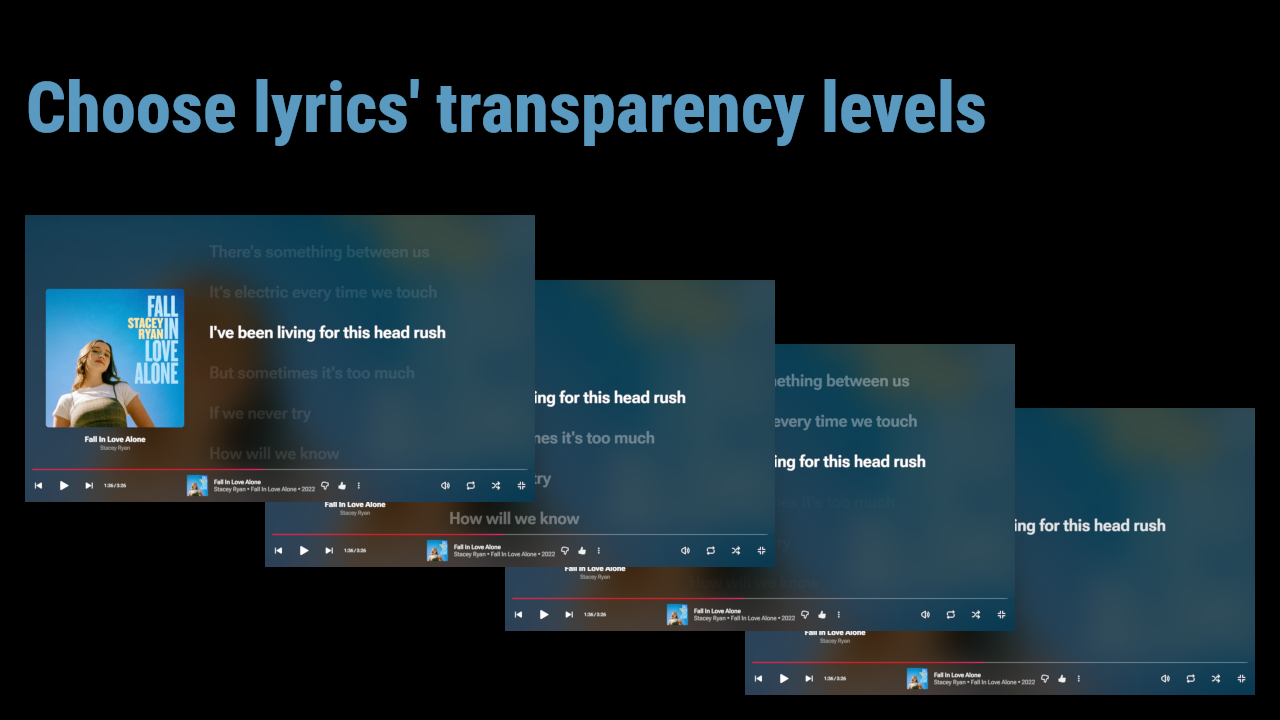
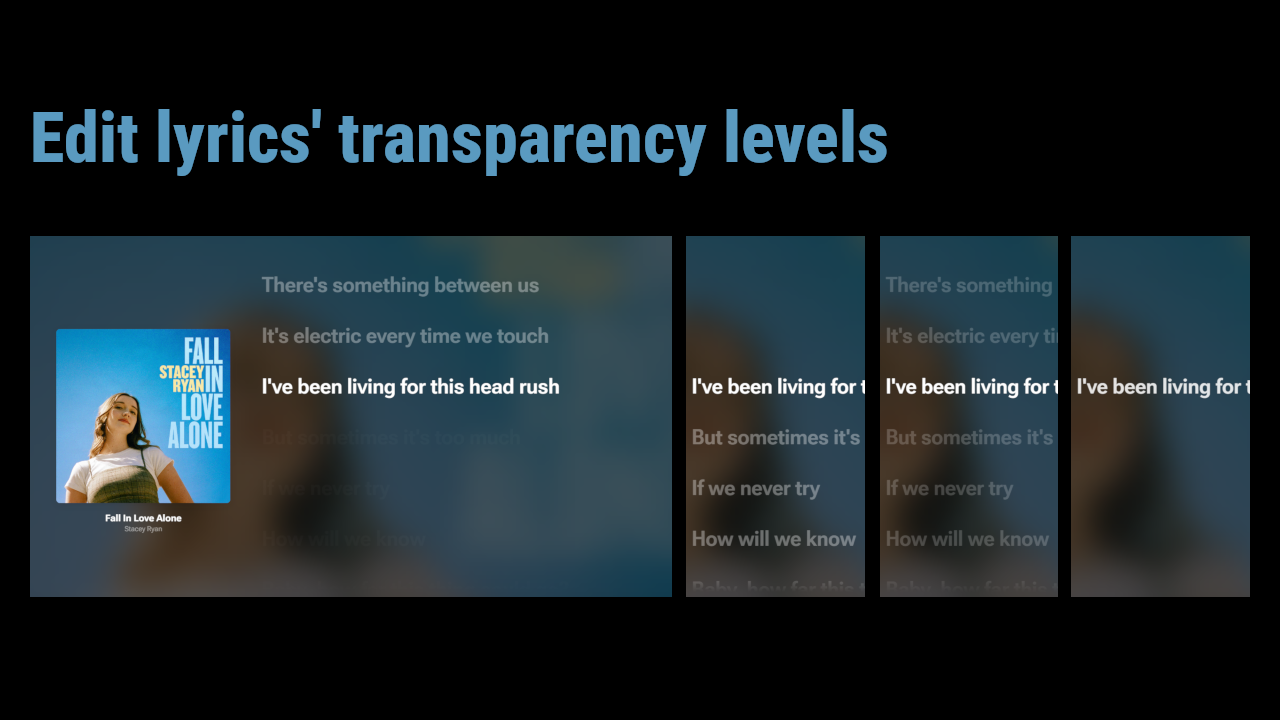
feat(minimal): update to v1.6.11 [skip ci]

diff --git a/themes/minimal/style.css b/themes/minimal/style.css
@@ -1,14 +1,14 @@
 
-/* 2026-02-22T12-52-26 v1.6.10                      */
+/* 2026-02-25T19-31-44 v1.6.11                      */
 
-/* Install from Theme Marketplace to always have the*/ 
-/* latest version!                                  */
+/* Install from Theme Marketplace to always have    */ 
+/* the latest version!                              */
 
 /* This theme explicitly changes/disables lyrics    */
 /* swipe animation. To bring back default lyric     */ 
 /* animation & style into this theme, delete all of */ 
 /* the following -                                  */ 
-/* Section-2-font-family-line, 3.1, 3.2, 4, & 6.    */ 
+/* Section-2-font-family-line, 3.1, 3.2, 4, 6, & 25 */ 
 
 /* You can then control stylized animations from    */
 /* extension settings like other themes.            */
@@ -45,6 +45,9 @@
   --current-lyric-visibility: 1;      /* 1 would mean 100%   */
   --previous-lyrics-visibility: 0.35; /* 0.35 would mean 35% */
   --next-lyrics-visibility: 0.02;     /* 0.02 would mean 2%  */
+  --hovered-line-visibility: calc(var(--current-lyric-visibility) * 0.8);
+  --non-hovered-lines-visibility: calc(var(--current-lyric-visibility) * 0.5);
+  --translated-lyric-visibility: 0.7; /* also romanized */
   --blyrics-font-family:
     "Roboto Flex", system-ui, sans-serif, var(--noto-sans-universal);
   --blyrics-footer-font-family: var(--blyrics-font-family);
@@ -196,28 +199,24 @@ ytmusic-app-layout > [slot="player-bar"] {
   color: var(--base-white);
   font-size: var(--blyrics-translated-font-size);
   line-height: 1.5;
-  opacity: 0.7; 
+  opacity: var(--translated-lyric-visibility); 
   transition: var(--lyrics-opacity-transition);
 }
 
 #blyrics-wrapper .blyrics-container > div.blyrics--active :is(.blyrics--romanized, .blyrics--translated) {
-  opacity: 0.7;
+  opacity: var(--translated-lyric-visibility);
 }
 
-/* User Scrolling */
-#blyrics-wrapper .blyrics-user-scrolling > div:not(.blyrics--active) {
-  opacity: 0.5;
+/* User Scrolling or Hover */
+#blyrics-wrapper .blyrics-container:is(:hover, .blyrics-user-scrolling) > div:not(.blyrics--active):not(:hover) {
+  opacity: var(--non-hovered-lines-visibility);
   transition: opacity 0.3s ease-out;
 }
 
-/* Hover Effects */
-#blyrics-wrapper .blyrics-container:hover .blyrics--line:not(:hover, .blyrics--active) {
-  opacity: 0.5; 
-  transition: opacity 0.3s ease-out;
-}
-
-#blyrics-wrapper .blyrics-container .blyrics--line:hover {
-  opacity: 0.85;
+/* Specific Line Hover */
+#blyrics-wrapper .blyrics-container:is(:hover, .blyrics-user-scrolling) > div:not(.blyrics--active):hover {
+  opacity: var(--hovered-line-visibility);
+  transition: opacity 0.1s ease-out;
 }
 
 /* Unsynced Lyrics */
@@ -251,13 +250,23 @@ ytmusic-app-layout:not([is-mweb-modernization-enabled]) [player-fullscreened]:no
   opacity: var(--current-lyric-visibility);
 }
 
-/* Not scrolling, target previous lines to active line (including finished lines between vocals) */
-#blyrics-wrapper .blyrics-container:has(> .blyrics--active):not(.blyrics-user-scrolling) > div:not(.blyrics--active):not(:where(.blyrics--active ~ div):not(:has(~ .blyrics--active))) {
+/* Previous Lines Enforcer */
+#blyrics-wrapper .blyrics-container:has(> .blyrics--active):not(.blyrics-user-scrolling):not(:hover) > div:not(.blyrics--active):not(:where(.blyrics--active ~ div):not(:has(~ .blyrics--active))) {
   opacity: var(--previous-lyrics-visibility);
 }
 
-#blyrics-wrapper#blyrics-wrapper > .blyrics-container .blyrics-footer { 
-    opacity: 0.87; 
+/* Footer's opacity */
+#blyrics-wrapper#blyrics-wrapper > .blyrics-container .blyrics-footer {
+    opacity: 1; 
+}
+
+#blyrics-wrapper#blyrics-wrapper > .blyrics-container .blyrics-footer > * { 
+    opacity: 0.3; 
+    transition: opacity 0.1s ease;
+}
+
+#blyrics-wrapper#blyrics-wrapper > .blyrics-container .blyrics-footer > *:hover { 
+    opacity: 1;
 }
 
 /* Hardcoding system lyric stylization disabling */
@@ -1055,3 +1064,4 @@ ytmusic-player-page[is-mweb-modernization-enabled]
 {
 transition: transform 0.2s ease-out !important;
 }
+

diff --git a/themes/minimal/DESCRIPTION.md b/themes/minimal/DESCRIPTION.md
@@ -1,4 +1,4 @@
-# Better Lyrics – Minimal Immersive Theme (v1.6.10)
+# Better Lyrics – Minimal Immersive Theme (v1.6.11)
 
 A clean, performance-focused theme for the **Better Lyrics** extension on **YouTube Music**.
 
@@ -9,8 +9,24 @@ This theme removes most lyric swipe/word animations and replaces them with a smo
 > _“Time, Tide, & I wait for nothing.”_
 > 
 > — Boidu _(probably)_
+
+![Performance and Elegance](https://github.com/ramansg/Minimal/blob/53bad0eca3f0f033a00f81151fc9d4ff5dd85227/images/2.png)
+
+## 📖 Table of Contents
+- [✨ Core Philosophy](#-core-philosophy)
+- [🔤 Typography](#-typography)
+- [🎯 Lyrics Behavior](#-lyrics-behavior)
+- [🚫 Animation Changes](#-animation-changes)
+- [🌌 Background System](#-background-system-section-33)
+- [📱 Fullscreen & Portrait Support](#-fullscreen--portrait-support)
+- [🎵 No Lyrics Experience](#-no-lyrics-experience)
+- [📦 Loader & Ad Overlay](#-loader--ad-overlay)
+- [🎨 UI Enhancements](#-ui-enhancements)
+- [⚙ Performance Notes](#-performance-notes)
+- [🛠 Customization Guide](#-customization-guide)
+- [🔌 Standalone Plugins](#-standalone-plugins)
  
-`Plugin codeblock for replacing karaoke with opacity based animation at the end`
+[`Plugin codeblock for replacing karaoke with opacity based animation at the end`](#-standalone-plugins)
 
 ---
 
@@ -44,21 +60,15 @@ To revert to default YouTube font:
 
 ### Visibility Model (Section 3.1)
 
-The theme uses opacity instead of animation emphasis:
+![Edit lyrics' transparency levels](https://github.com/ramansg/Minimal/blob/53bad0eca3f0f033a00f81151fc9d4ff5dd85227/images/1.png)
 
-| Lyric State | Default Opacity |
-|-------------|-----------------|
-| Current     | `1` (100%)      |
-| Previous    | `0.35`          |
-| Next        | `0.02`          |
-
-You can adjust:
+The theme uses opacity instead of animation emphasis. You can adjust the focus intensity by modifying these variables in `:root` (Section 3.1):
 
 ```css
---current-lyric-visibility
---previous-lyrics-visibility
---next-lyrics-visibility
-````
+--current-lyric-visibility: 1;      /* 100% opacity for active line */
+--previous-lyrics-visibility: 0.35; /* 35% opacity for past lines */
+--next-lyrics-visibility: 0.02;     /* 2% opacity for upcoming lines */
+```
 
 This makes it very easy to:
 
@@ -88,6 +98,7 @@ Delete:
 * **Section 3.2**
 * **Section 4**
 * **Section 6**
+* **Section 25**
 
 Then control animations via Better Lyrics settings instead.
 
@@ -160,19 +171,20 @@ Custom loader system:
 
 ## 🎨 UI Enhancements
 
-Includes refined styling for:
+Includes refined styling and layout fixes to match the immersive dark aesthetic:
 
-* Player queue
-* 3-dot menu popup
-* Search box background
-* Queue drag states
-* Toast notifications (auto-dismiss)
-* Player bar transparency
-* Tab headings (underline highlight system)
-* Volume popup rounding
-* Album immersive backgrounds
+![Dynamically Refined Artist Pages](https://github.com/ramansg/Minimal/blob/53bad0eca3f0f033a00f81151fc9d4ff5dd85227/images/3.png)
+* **Immersive Artist Pages:** Full-bleed, dimmed backgrounds for artist pages with smooth scroll-fading masks.
 
-All adjusted to match the immersive dark aesthetic.
+![Immersive Album Pages](https://github.com/ramansg/Minimal/blob/53bad0eca3f0f033a00f81151fc9d4ff5dd85227/images/4.png)
+* **Immersive Album Pages:** Dynamic background dimming applies beautifully to album and podcast pages.
+
+![Miscellaneous Touches - QoL](https://github.com/ramansg/Minimal/blob/53bad0eca3f0f033a00f81151fc9d4ff5dd85227/images/5.png)
+* **Player Queue:** Sticky headers, custom transparent chip designs, and fixed dragging-state backgrounds.
+* **Menus & Popups:** Refined 3-dot menu scroll behavior and compact, rounded volume popups.
+* **Search & Navigation:** Darker Bauhaus search box backgrounds and customized tab headings with underline highlights.
+* **Notifications:** Auto-dismissing toast notifications that sweep away smoothly.
+* **UI Cleanups:** Hidden scrollbars, transparent player bars, and removed gradient overlays.
 
 ---
 
@@ -213,8 +225,8 @@ Please report bugs or suggestions on Discord.
 
 ## 🔖 Version
 
-**v1.6.10**
-Last updated: 2026-02-22
+**v1.6.11**
+Last updated: 2026-02-25
 
 ---
 
@@ -242,7 +254,12 @@ Enjoy the calm.
 
 ---
 
-## Plug-in code for converting Karaoke style lyric animation to Opacity-Scroll style
+## 🔌 Standalone Plugins
+
+If you prefer using the default Better Lyrics theme but just want to cherry-pick specific features from this Minimal theme, you can copy and paste the standalone code blocks below into your Custom CSS.
+
+### 1. Opacity-Scroll Lyric Animation
+*Replaces default karaoke styles, wobbles, and glows with smooth, opacity-based scrolling.*
 
 ```css
 
@@ -253,7 +270,9 @@ Enjoy the calm.
   /* 0.35 would mean 35% */
   --next-lyrics-visibility: 0.35;
   /* 0.02 would mean 2%  */
-
+  --hovered-line-visibility: calc(var(--current-lyric-visibility) * 0.8);
+  --non-hovered-lines-visibility: calc(var(--current-lyric-visibility) * 0.5);
+  --translated-lyric-visibility: 0.7; /* also romanized */
   --blyrics-footer-font-family: var(--blyrics-font-family);
   --blyrics-font-weight: 600;
   --blyrics-font-size: 3.5rem;
@@ -378,28 +397,24 @@ blyrics-add-extra-top-padding = true;
   color: var(--base-white);
   font-size: var(--blyrics-translated-font-size);
   line-height: 1.5;
-  opacity: 0.7;
+  opacity: var(--translated-lyric-visibility);
   transition: var(--lyrics-opacity-transition);
 }
 
 #blyrics-wrapper .blyrics-container>div.blyrics--active :is(.blyrics--romanized, .blyrics--translated) {
-  opacity: 0.7;
+  opacity: var(--translated-lyric-visibility);
 }
 
-/* User Scrolling */
-#blyrics-wrapper .blyrics-user-scrolling>div:not(.blyrics--active) {
-  opacity: 0.5;
+/* User Scrolling or Hover */
+#blyrics-wrapper .blyrics-container:is(:hover, .blyrics-user-scrolling) > div:not(.blyrics--active):not(:hover) {
+  opacity: var(--non-hovered-lines-visibility);
   transition: opacity 0.3s ease-out;
 }
 
-/* Hover Effects */
-#blyrics-wrapper .blyrics-container:hover .blyrics--line:not(:hover, .blyrics--active) {
-  opacity: 0.5;
-  transition: opacity 0.3s ease-out;
-}
-
-#blyrics-wrapper .blyrics-container .blyrics--line:hover {
-  opacity: 0.85;
+/* Specific Line Hover */
+#blyrics-wrapper .blyrics-container:is(:hover, .blyrics-user-scrolling) > div:not(.blyrics--active):hover {
+  opacity: var(--hovered-line-visibility);
+  transition: opacity 0.1s ease-out;
 }
 
 /* Unsynced Lyrics */
@@ -433,13 +448,24 @@ ytmusic-app-layout:not([is-mweb-modernization-enabled]) [player-fullscreened]:no
   opacity: var(--current-lyric-visibility);
 }
 
-/* Not scrolling, target previous lines to active line (including finished lines between vocals) */
-#blyrics-wrapper .blyrics-container:has(> .blyrics--active):not(.blyrics-user-scrolling) > div:not(.blyrics--active):not(:where(.blyrics--active ~ div):not(:has(~ .blyrics--active))) {
+/* Previous Lines Enforcer */
+#blyrics-wrapper .blyrics-container:has(> .blyrics--active):not(.blyrics-user-scrolling):not(:hover) > div:not(.blyrics--active):not(:where(.blyrics--active ~ div):not(:has(~ .blyrics--active))) {
   opacity: var(--previous-lyrics-visibility);
 }
 
-#blyrics-wrapper#blyrics-wrapper>.blyrics-container .blyrics-footer {
-  opacity: 0.87;
+/* Footer's opacity is affected by .blyrics container */
+/* Override for it along with hover implementation  */
+#blyrics-wrapper#blyrics-wrapper > .blyrics-container .blyrics-footer {
+    opacity: 1; 
+}
+
+#blyrics-wrapper#blyrics-wrapper > .blyrics-container .blyrics-footer > * { 
+    opacity: 0.3; 
+    transition: opacity 0.1s ease;
+}
+
+#blyrics-wrapper#blyrics-wrapper > .blyrics-container .blyrics-footer > *:hover { 
+    opacity: 1;
 }
 
 /* Hardcoding system lyric stylization disabling */
@@ -449,20 +475,24 @@ ytmusic-app-layout:not([is-mweb-modernization-enabled]) [player-fullscreened]:no
 .blyrics-container>div>div>span>span.blyrics--animating {
   animation: none;
 }
+
 ```
 
-### Optional Musical Note Plugins
+### 2. Optional Musical Note Plugins
+*(Optional) To disable musical note animation*
 
 ```css
-/* (Optional) To disable musical note animation */
 .blyrics--instrumental-icon {
   display: none;
 }
 .blyrics--instrumental.blyrics--line::after {
   content: "♫";
 }
+```
 
-/* (optional) to replace all breaks with musical notes */
+*(Optional) to replace all breaks with musical notes*
+
+```css
 .blyrics--line:has(.blyrics--word[data-content=""]) .blyrics--break {
   display: inline-flex;
   align-items: center;
